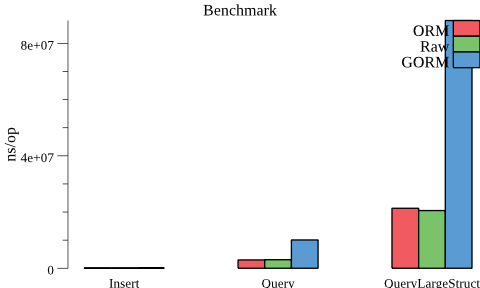
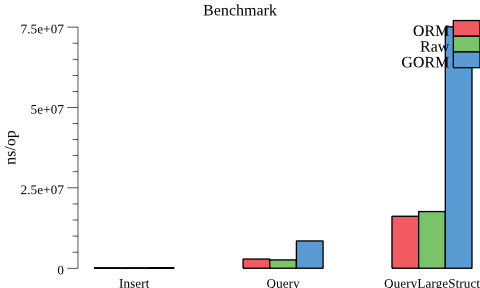
remove checks in benchmarks

diff --git a/bench/bench_test.go b/bench/bench_test.go
@@ -82,9 +82,8 @@ func BenchmarkORMQuery(b *testing.B) {
 
 	b.ResetTimer()
 	for i := 0; i < b.N; i++ {
-		ps, err := porm.Select().Query()
+		_, err := porm.Select().Query()
 		require.Nil(b, err)
-		assert.Equal(b, datasetSize, len(ps))
 	}
 }
 
@@ -107,7 +106,6 @@ func BenchmarkGORMQuery(b *testing.B) {
 		var ps []tests.Person
 		err = db.Find(&ps).Error
 		require.Nil(b, err)
-		assert.Equal(b, datasetSize, len(ps))
 	}
 }
 
@@ -136,7 +134,6 @@ func BenchmarkRawQuery(b *testing.B) {
 			require.Nil(b, err)
 			ps = append(ps, p)
 		}
-		assert.Equal(b, datasetSize, len(ps))
 		rows.Close()
 	}
 }
@@ -160,9 +157,8 @@ func BenchmarkORMQueryLargeStruct(b *testing.B) {
 
 	b.ResetTimer()
 	for i := 0; i < b.N; i++ {
-		alls, err := aorm.Select().Query()
+		_, err := aorm.Select().Query()
 		require.Nil(b, err)
-		assert.Equal(b, datasetSize, len(alls))
 	}
 }
 
@@ -187,7 +183,6 @@ func BenchmarkGORMQueryLargeStruct(b *testing.B) {
 		var alls []tests.All
 		err = db.Find(&alls).Error
 		require.Nil(b, err)
-		assert.Equal(b, datasetSize, len(alls))
 	}
 }
 
@@ -227,7 +222,6 @@ func BenchmarkRawQueryLargeStruct(b *testing.B) {
 			require.Nil(b, err)
 			ps = append(ps, p1)
 		}
-		assert.Equal(b, datasetSize, len(ps))
 		rows.Close()
 	}
 }

diff --git a/bench/README.md b/bench/README.md
@@ -4,9 +4,9 @@ Units: [ns/op (ratio from ORM)]
 
 | Test | ORM | Raw | GORM |
 | --- | --- | --- | --- |
-| Insert | 22110 (100%) | 15660 (70%) | 63408 (286%) |
-| Query | 2949922 (100%) | 3031721 (102%) | 10064958 (341%) |
-| QueryLargeStruct | 21340732 (100%) | 20527749 (96%) | 88145729 (413%) |
+| Insert | 20985 (100%) | 15152 (72%) | 59076 (281%) |
+| Query | 2860340 (100%) | 2590434 (90%) | 8488300 (296%) |
+| QueryLargeStruct | 16167653 (100%) | 17622053 (108%) | 75073092 (464%) |
 
 
 ![graph](./benchmark.png)
